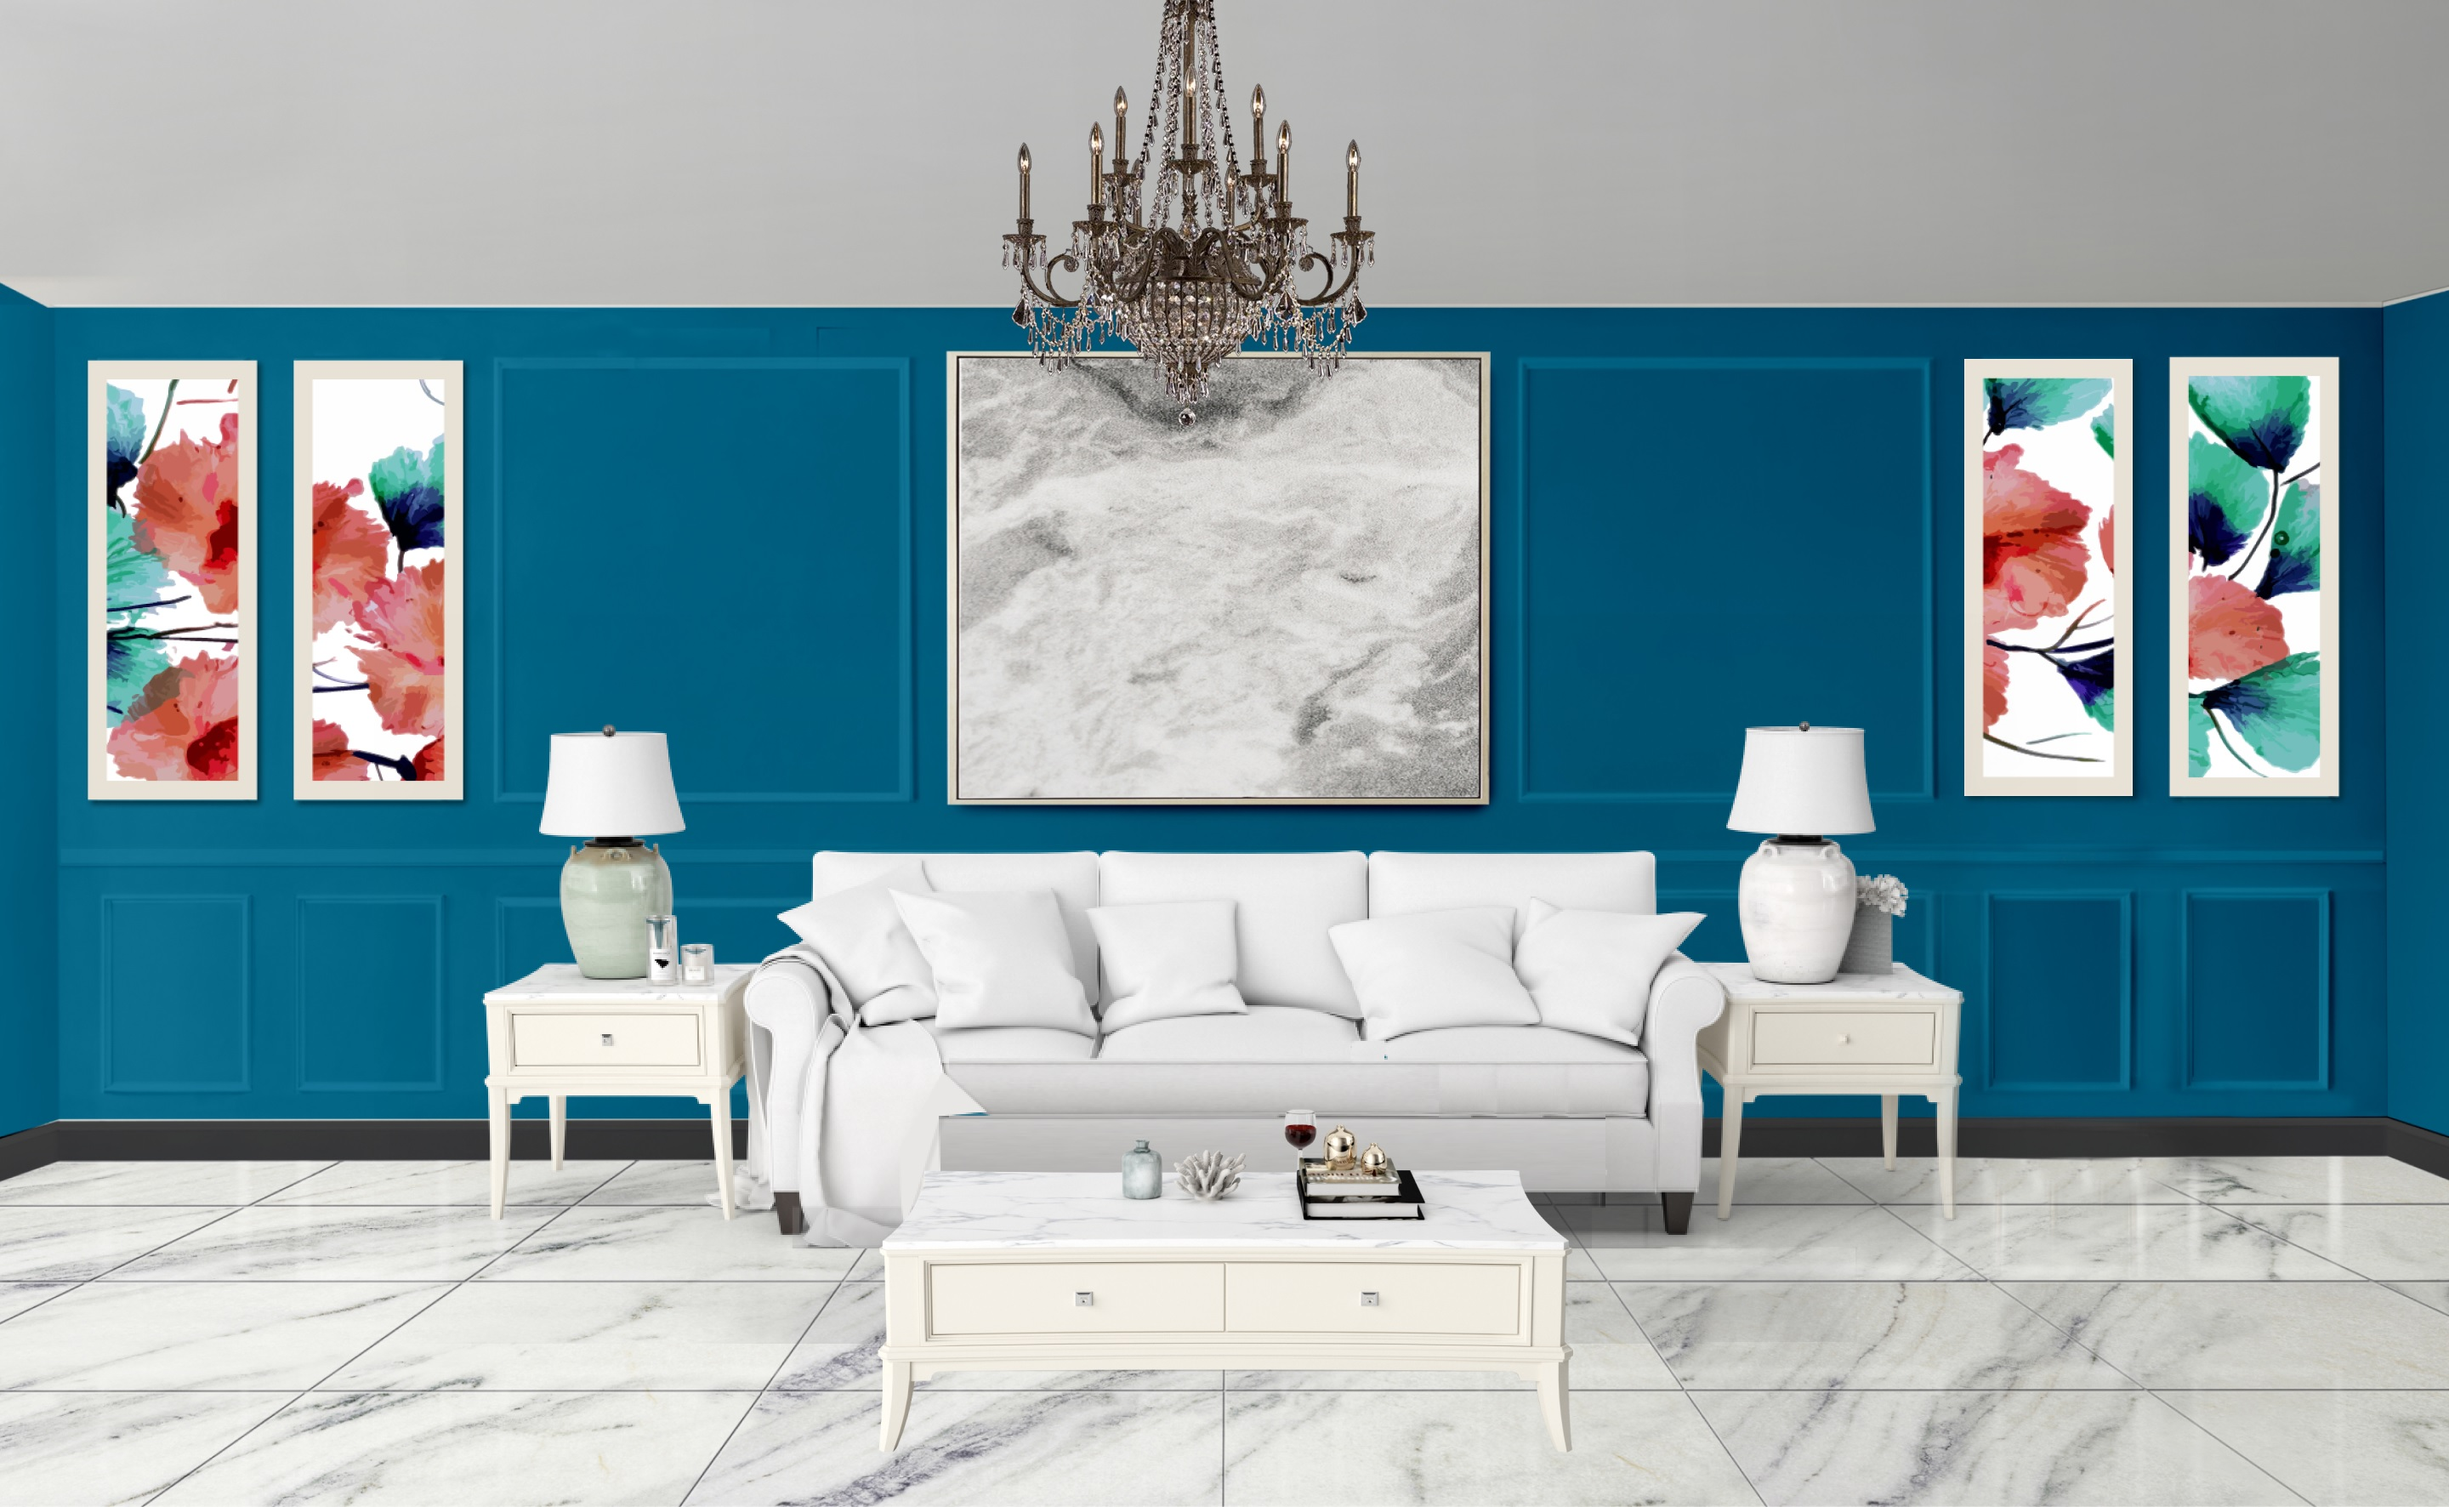
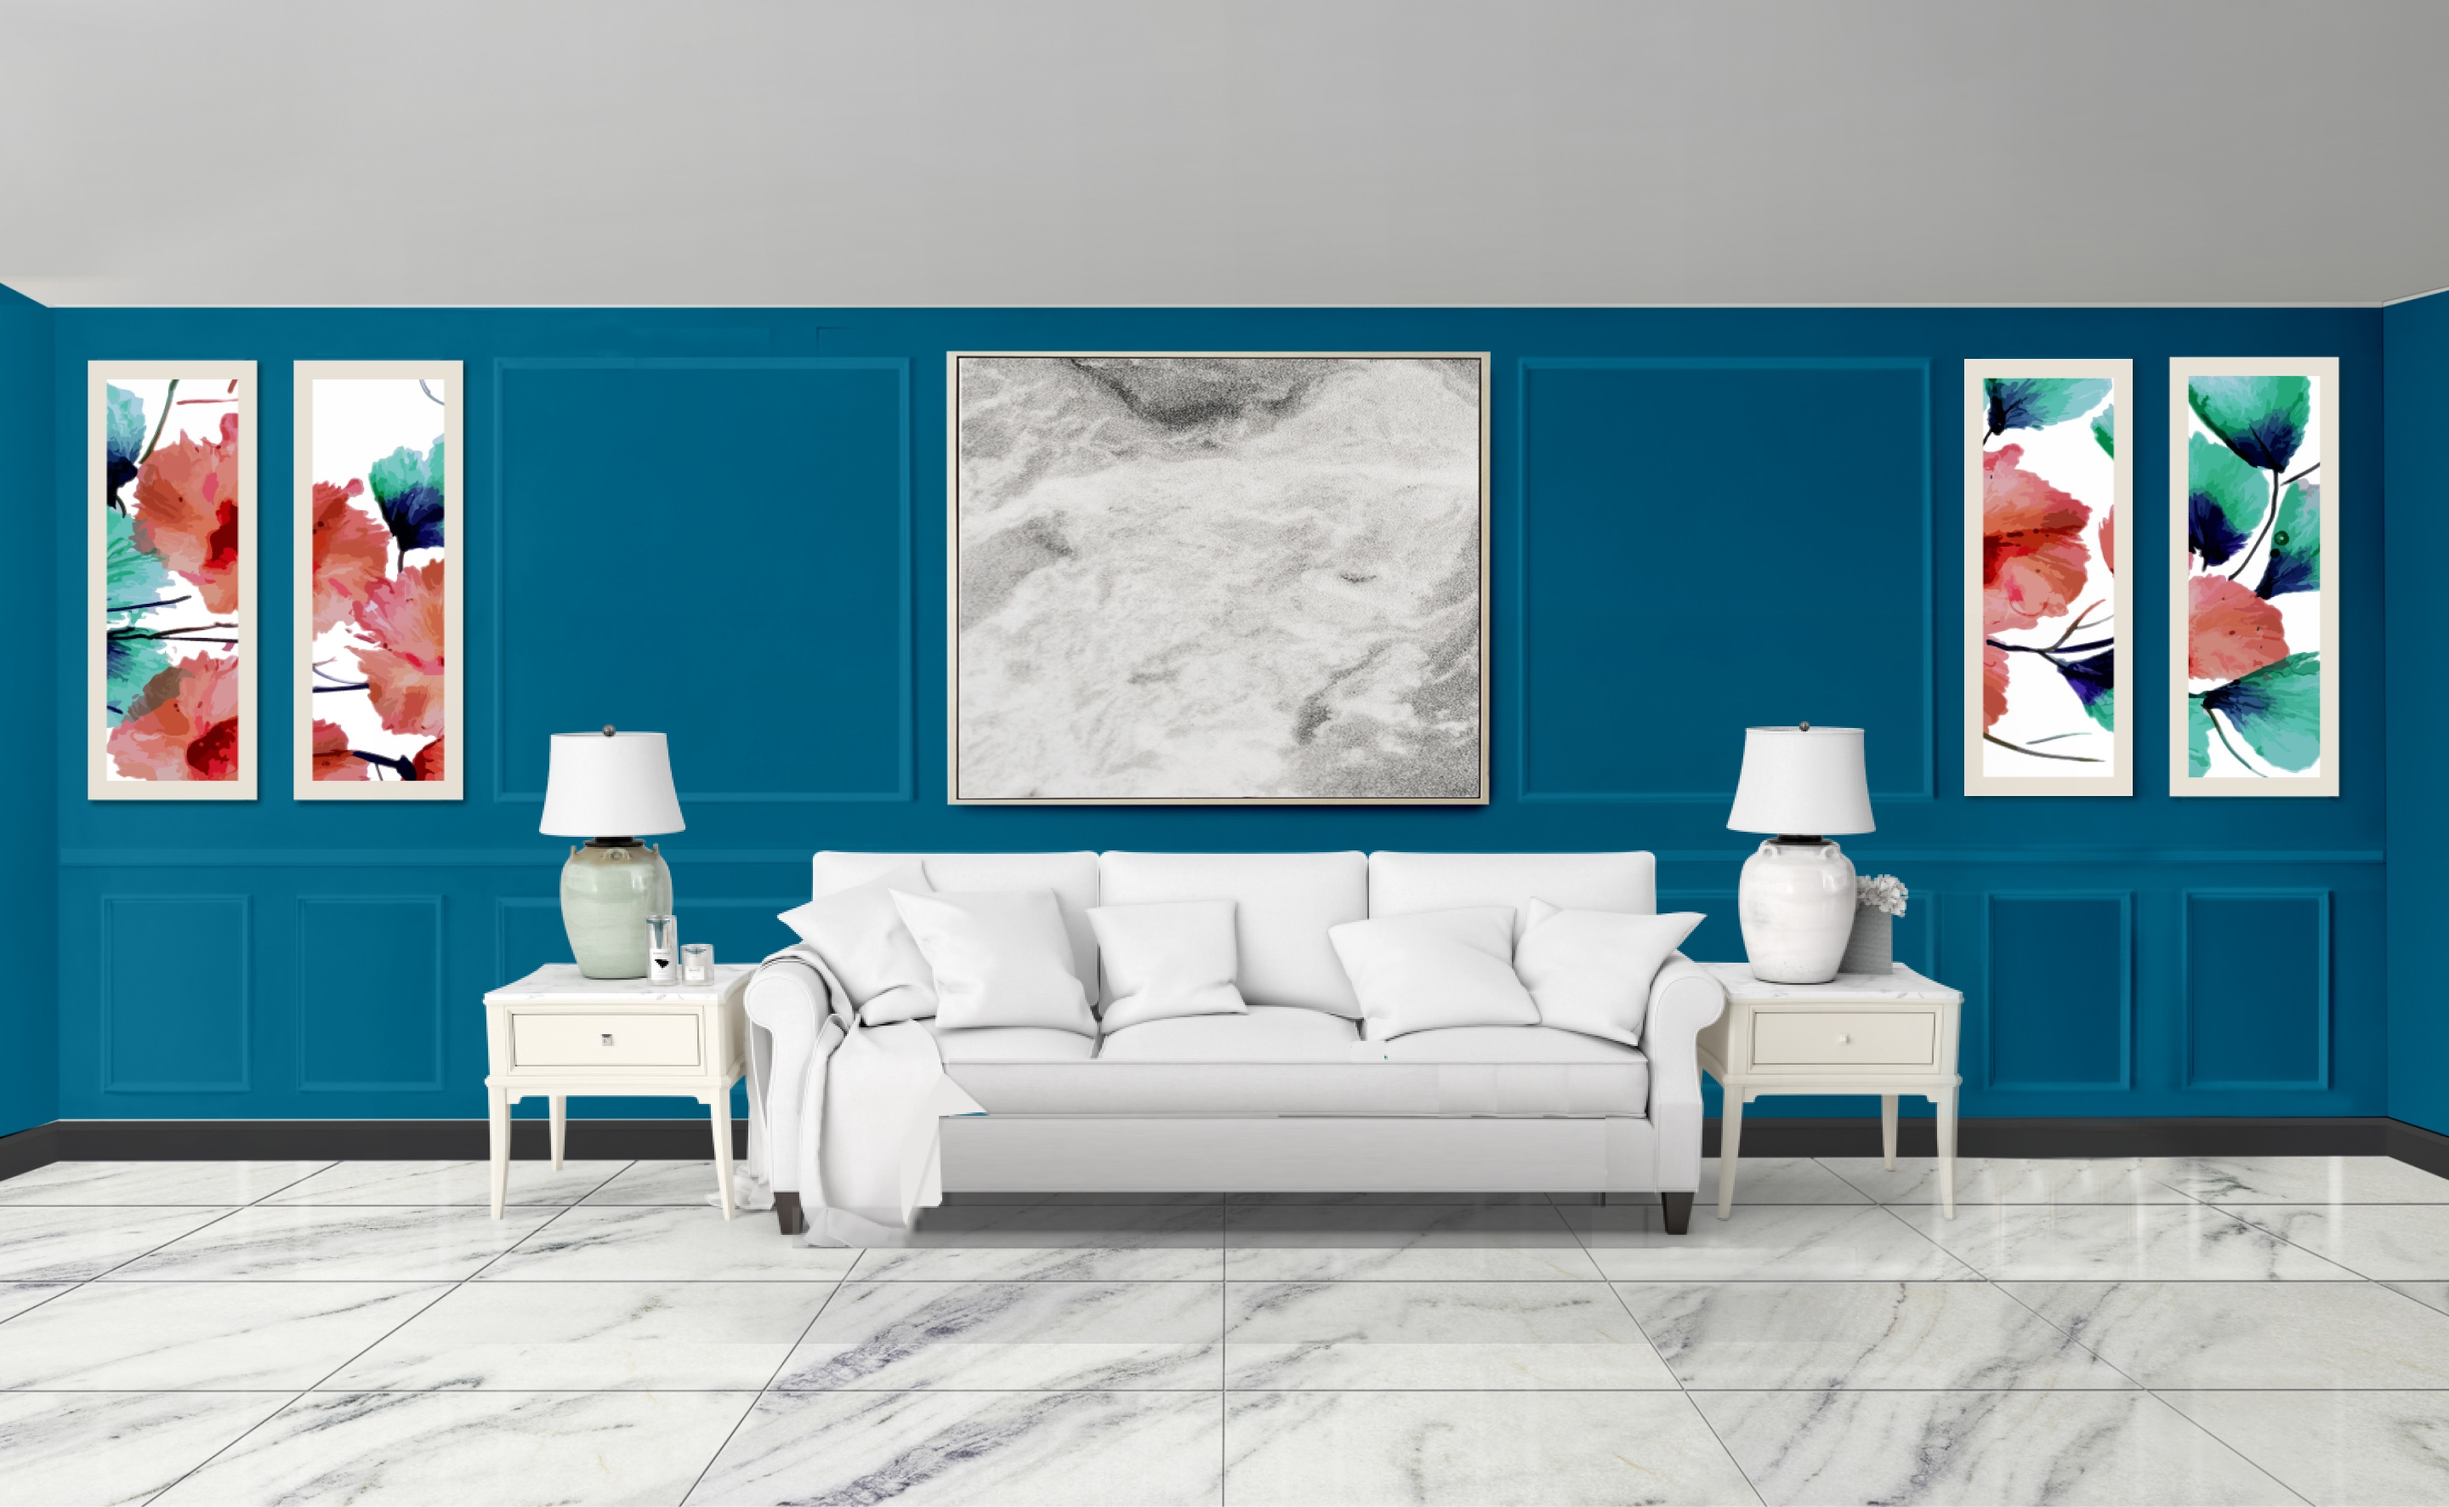
Added Candelier| Table Motions

Changed region(s): [[0.3438, 0.7449, 0.6562, 0.9622], [0.4062, 0.0, 0.5625, 0.2793]]

diff --git a/src/components/Landing/Centered.js b/src/components/Landing/Centered.js
@@ -1,13 +1,58 @@
-import React from 'react'
+import React, {useEffect, useState} from 'react'
 import './../../assets/css/custom.css'
+import floatTable from './../../assets/images/float-table.png'
+import chandelier from './../../assets/images/chandelier.png'
+import { motion, useAnimation } from "framer-motion";
+import { useInView } from "react-intersection-observer";
+
+
+function TranslateTable({ children }) {
+  
+    return (
+      <motion.div
+        initial={{ transform:'translateY(-20px)', transition: {type: 'tween', duration: 2 } } }
+        animate={{  
+            delay: 1,transform:'translateY(10px)', transition: {type: 'tween', duration: 2,repeatType: "mirror",repeatDelay: 2 ,repeat: Infinity} } }
+            onHover={{
+                scale: 1.1}}
+                >    
+        {children}
+      </motion.div>
+    );
+  }
+
+  function TranslateChandelier({ children }) {
+  
+    return (
+      <motion.div
+        initial={{ transform:'translateY(-20px)', transition: {type: 'tween', duration: 2 } } }
+        animate={{  onHover:{
+            scale: 1.1},
+                transform:'translateY(10px)', transition: {delay: 1.5,type: 'tween', duration: 2,repeatType: "mirror",repeatDelay: 2.2 ,repeat: Infinity} } }
+        
+        
+        >    
+        
+        {children}
+      </motion.div>
+    );
+  }
 
 
 const Centered = () => {
     return (
         <div className="centered">
             <span className="centered-style">LOREM IPSUM TITLE GOES HERE</span>
+            <TranslateChandelier>
+                <img className='chandelier'alt="floating-table" src={chandelier}></img>
+            </TranslateChandelier>
+            <TranslateTable>
+                <img className='float-table'alt="floating-table" src={floatTable}></img>
+            </TranslateTable>
         </div>
     )
 }
+
+
 
 export default Centered

diff --git a/src/components/Portfolio/Portfolio.js b/src/components/Portfolio/Portfolio.js
@@ -57,7 +57,7 @@ const Portfolio = () => {
                             </p>
                         </div>
                     </div>
-                    <div className="col-sm col-6 col-sm-6 col-md-6 col-lg-3 col-xl-3 fadeInUp" >
+                    <div className="col-sm col-6 col-sm-6 col-md-6 col-lg-3 col-xl-3 " >
                         <div className='portfolio-project'>
                             <div style={{ marginLeft: '10px' }}>
                                 <FadeInWhenVisible>
@@ -68,7 +68,7 @@ const Portfolio = () => {
                             </div>
                         </div>
                     </div>
-                    <div className="col-sm col-6 col-sm-6 col-md-6 col-lg-3 col-xl-3 fadeInUp">
+                    <div className="col-sm col-6 col-sm-6 col-md-6 col-lg-3 col-xl-3 ">
                         <div className='portfolio-project-x'>
                             <div style={{ marginLeft: '10px' }}>
                             <FadeInWhenVisible>
@@ -82,7 +82,7 @@ const Portfolio = () => {
                             </div>
                         </div>
                     </div>
-                    <div className="col-sm col-6 col-sm-6 col-md-6 col-lg-3 col-xl-3 fadeInUp">
+                    <div className="col-sm col-6 col-sm-6 col-md-6 col-lg-3 col-xl-3 ">
                         <div className='portfolio-project-x'>
                             <div style={{ marginLeft: '10px' }}>
                             <FadeInWhenVisible>

diff --git a/src/assets/css/custom.css b/src/assets/css/custom.css
@@ -24,6 +24,22 @@ background-color: rgba(0,0,0,0.3);
 font-size:3.75rem;
 padding: 6px;
 }
+
+.float-table{
+position: absolute;
+top:80%;
+left: 50%;
+transform: translate(-50%,50%);
+}
+
+.chandelier{
+    
+position: absolute;
+
+left: 50%;
+transform: translate(-50%,-180%);
+}
+
 .ff{
     text-align: left;
 }
@@ -159,8 +175,12 @@ text-align: left;
         text-align: left;
         width:350px;
         padding: 6px;
+        position: relative;
         }
 
+        .float-table{
+            display: none;
+            }
     .portfolio-imglines {
         height: 4px;
         float: left;

diff --git a/src/components/Landing/Landing.js b/src/components/Landing/Landing.js
@@ -8,7 +8,8 @@ root:{
     minHeight:'100vh',
     backgroundImage:`url(${BgImage})`,
     backgroundRepeat: 'no-repeat',
-    backgroundSize:'cover'
+    backgroundSize:'cover',
+    backgroundPosition:'center'
 }
 
 }))
